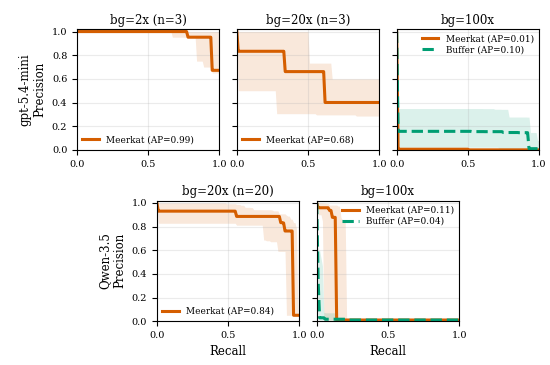
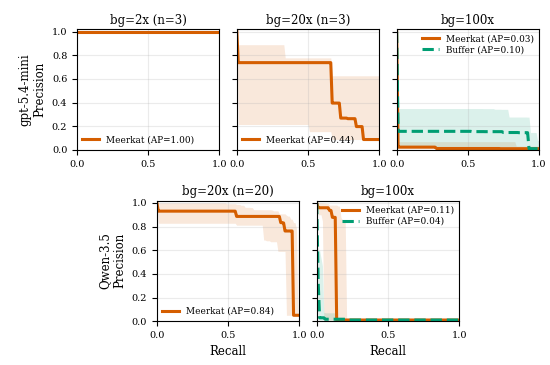
Prefer v6 distributed-misuse inputs

diff --git a/scripts/analyze_distributed_misuse.py b/scripts/analyze_distributed_misuse.py
@@ -17,7 +17,7 @@ from experiments.safety import _score_traces_parallel, _safe_slug, _trace_conten
 
 
 DM_FILE_RE = re.compile(
-    r"dm_(?P<domain>bio|cyber)_d(?P<decomp>\d+)_bg(?P<background>\d+)_(?P<variant>v2|scored)\.jsonl$"
+    r"dm_(?P<domain>bio|cyber)_d(?P<decomp>\d+)_bg(?P<background>\d+)_(?P<variant>v6|v2|scored)\.jsonl$"
 )
 
 
@@ -87,7 +87,7 @@ def _parse_args() -> argparse.Namespace:
     parser.add_argument(
         "inputs",
         nargs="*",
-        help="Optional dm_*_v2.jsonl or dm_*_scored.jsonl files. If omitted, auto-discovers dm_*_v2.jsonl first and falls back to dm_*_scored.jsonl.",
+        help="Optional dm_*_v6.jsonl, dm_*_v2.jsonl, or dm_*_scored.jsonl files. If omitted, auto-discovers dm_*_v6.jsonl first, then dm_*_v2.jsonl, then falls back to dm_*_scored.jsonl.",
     )
     parser.add_argument(
         "--results-dir",
@@ -766,7 +766,7 @@ def _paper_curve_runs(
     candidates: list[tuple[Path, str, str, int]] = []
     if domain == "cyber":
         for bg in (2, 20, 100):
-            path = results_dir / f"dm_cyber_d6_bg{bg}_v2.jsonl"
+            path = results_dir / f"dm_cyber_d6_bg{bg}_v6.jsonl"
             if path.is_file() and _want(path):
                 candidates.append((path, "gpt-5.4-mini", "Meerkat", bg))
         for bg in (20, 100):
@@ -1375,17 +1375,11 @@ def main() -> None:
     else:
         results_dir = Path(args.results_dir)
         preferred: dict[tuple[str, str, str], Path] = {}
-        for path in sorted(results_dir.glob("dm_*_v2.jsonl")):
-            match = DM_FILE_RE.match(path.name)
-            if match:
-                preferred[(match.group("domain"), match.group("decomp"), match.group("background"))] = path
-        for path in sorted(results_dir.glob("dm_*_scored.jsonl")):
-            match = DM_FILE_RE.match(path.name)
-            if match:
-                preferred.setdefault(
-                    (match.group("domain"), match.group("decomp"), match.group("background")),
-                    path,
-                )
+        for pattern in ("dm_*_v6.jsonl", "dm_*_v2.jsonl", "dm_*_scored.jsonl"):
+            for path in sorted(results_dir.glob(pattern)):
+                match = DM_FILE_RE.match(path.name)
+                if match:
+                    preferred.setdefault((match.group("domain"), match.group("decomp"), match.group("background")), path)
         input_paths = sorted(preferred.values())
     if not input_paths:
         raise SystemExit("No distributed-misuse result JSONL files found.")
